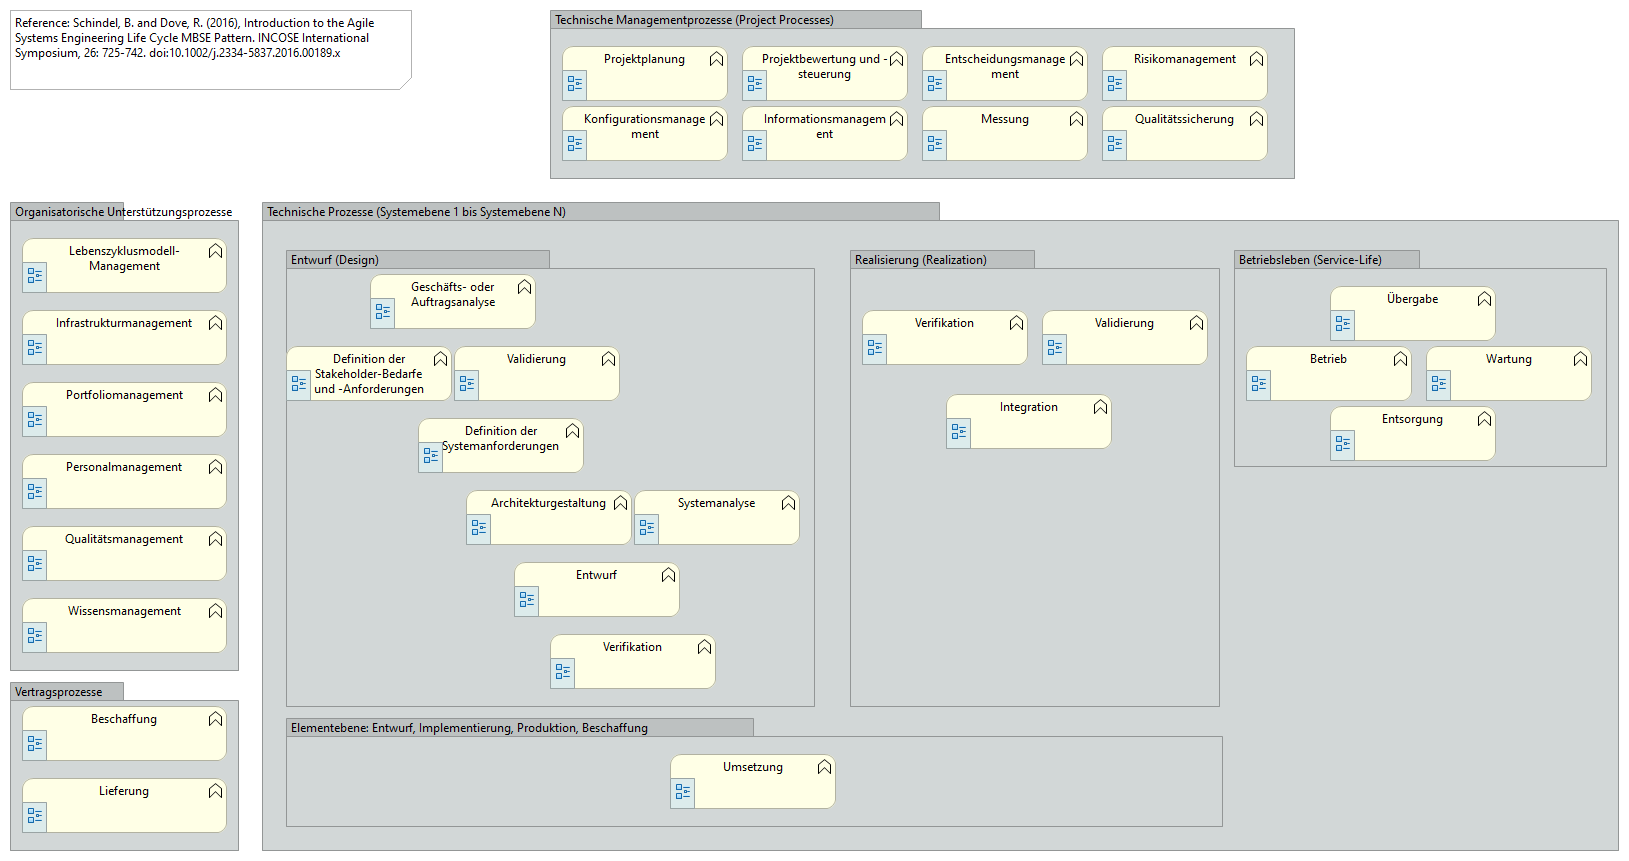
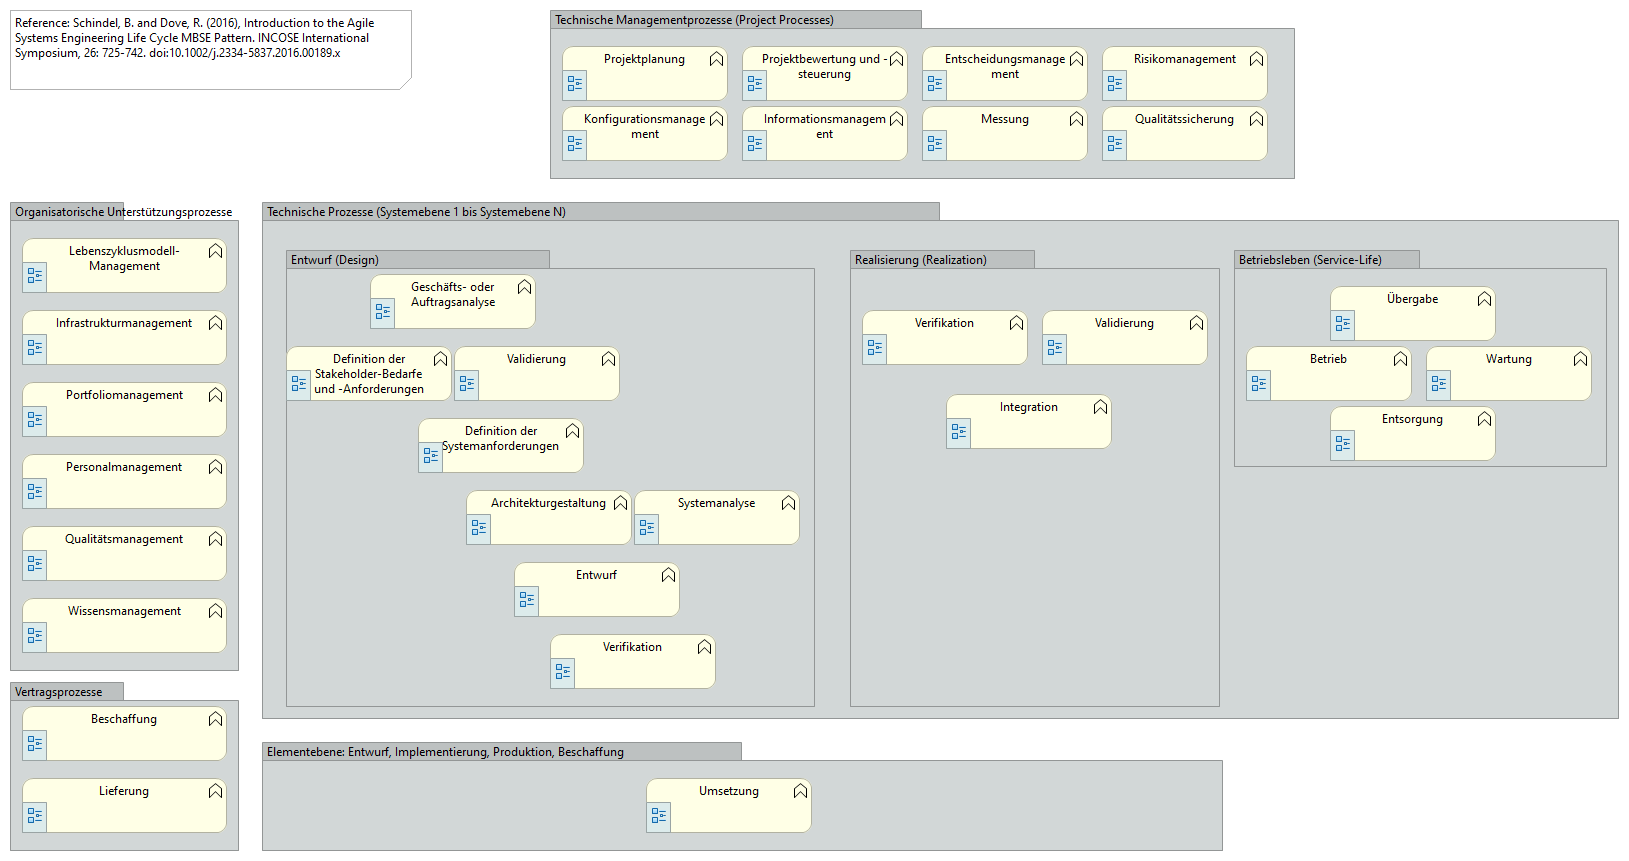
Update - Tech Process Element standalone

Changed region(s): [[0.1535, 0.8153, 1.0, 0.9965]]

diff --git a/MHPReport/15603b4a-2055-4a4e-a5a8-bde62073c06c/views/68ca604e-3d39-4179-aa78-bbb8b347ab2a.html b/MHPReport/15603b4a-2055-4a4e-a5a8-bde62073c06c/views/68ca604e-3d39-4179-aa78-bbb8b347ab2a.html
@@ -34,6 +34,12 @@
 		    <!-- If this is a digram model (has children and no bounds) show the image -->
 			   <img class="diagram" src="../images/68ca604e-3d39-4179-aa78-bbb8b347ab2a.png" alt="V-Modell Ansicht" usemap="#68ca604e-3d39-4179-aa78-bbb8b347ab2amap"/>
 			   <map name="68ca604e-3d39-4179-aa78-bbb8b347ab2amap">
+				  						<area shape="rect" coords="646,802,671,833" href="../views/865953ce-1a06-4588-b383-720519858d8b.html"  target="view">
+				  				    <!-- Other diagram objects -->
+
+				  				<area shape="rect" coords="646,778,812,833" href="../elements/dd630d51-558b-4ccc-9091-5f0822ff4d02.html"  target="element">
+
+				          <area shape="rect" coords="262,742,1223,851" href="../objects/19332b9d-b07a-4b15-a438-8ab5d6bf4344.html" target="element" >
 				          <area shape="rect" coords="10,10,412,90" href="../objects/4b4b7e76-e760-49db-b483-5f934f212f56.html" target="element" >
 				  						<area shape="rect" coords="22,622,47,653" href="../views/02aa017f-d5e1-41a5-89c4-d8e7cbe1d9d4.html"  target="view">
 				  				    <!-- Other diagram objects -->
@@ -105,12 +111,6 @@
 				  				<area shape="rect" coords="562,46,728,101" href="../elements/af9e0d82-de0d-4bfd-93e7-1a3253e43e8c.html"  target="element">
 
 				          <area shape="rect" coords="550,10,1295,179" href="../objects/c452ac36-a544-4d04-80bb-049cb43fad83.html" target="element" >
-				  								<area shape="rect" coords="670,778,695,809" href="../views/865953ce-1a06-4588-b383-720519858d8b.html"  target="view">
-				  						    <!-- Other diagram objects -->
-
-				  						<area shape="rect" coords="670,754,836,809" href="../elements/dd630d51-558b-4ccc-9091-5f0822ff4d02.html"  target="element">
-
-				  		        <area shape="rect" coords="286,718,1223,827" href="../objects/19332b9d-b07a-4b15-a438-8ab5d6bf4344.html" target="element" >
 				  								<area shape="rect" coords="1426,370,1451,401" href="../views/080ae985-c599-4cd9-801b-602fa0e41bba.html"  target="view">
 				  						    <!-- Other diagram objects -->
 
@@ -178,7 +178,7 @@
 
 				  		        <area shape="rect" coords="850,250,1220,707" href="../objects/67a09e96-5d54-462e-96fc-1878d177e16a.html" target="element" >
 
-				          <area shape="rect" coords="262,202,1619,851" href="../objects/b9b1d24e-c009-402a-aeb6-256df171e9a4.html" target="element" >
+				          <area shape="rect" coords="262,202,1619,719" href="../objects/b9b1d24e-c009-402a-aeb6-256df171e9a4.html" target="element" >
 
 			   </map>
 
@@ -426,24 +426,6 @@
 
 															
 													
-											        <tr>
-											           <td> <a href="../objects/19332b9d-b07a-4b15-a438-8ab5d6bf4344.html" target="element"> Elementebene: Entwurf, Implementierung, Produktion, Beschaffung </a> </td>
-											           <td> <a href="../objects/19332b9d-b07a-4b15-a438-8ab5d6bf4344.html" target="element" class="i18n-elementtype-DiagramModelGroup"> </a> </td>
-											        </tr>
-
-															<tr>
-															    <td> <a href="../elements/dd630d51-558b-4ccc-9091-5f0822ff4d02.html" target="element"> Umsetzung </a> </td>
-															    <td> <a href="../elements/dd630d51-558b-4ccc-9091-5f0822ff4d02.html" target="element" class="i18n-elementtype-BusinessFunction"> </a> </td>
-															</tr>
-
-																	<tr>
-																	    <td> <a href="../views/865953ce-1a06-4588-b383-720519858d8b.html" target="view"> 01-07 Umsetzung </a> </td>
-																	    <td> <a href="../views/865953ce-1a06-4588-b383-720519858d8b.html" target="view" class="i18n-viewpoint-"> </a> </td>
-																	</tr>
-															    <!-- Other graphical objects -->
-
-															
-													
 											
 									        <tr>
 									           <td> <a href="../objects/c452ac36-a544-4d04-80bb-049cb43fad83.html" target="element"> Technische Managementprozesse (Project Processes) </a> </td>
@@ -660,6 +642,24 @@
 									           <td> <a href="../objects/4b4b7e76-e760-49db-b483-5f934f212f56.html" target="element" class="i18n-elementtype-DiagramModelNote"> </a> </td>
 									        </tr>
 
+									        <tr>
+									           <td> <a href="../objects/19332b9d-b07a-4b15-a438-8ab5d6bf4344.html" target="element"> Elementebene: Entwurf, Implementierung, Produktion, Beschaffung </a> </td>
+									           <td> <a href="../objects/19332b9d-b07a-4b15-a438-8ab5d6bf4344.html" target="element" class="i18n-elementtype-DiagramModelGroup"> </a> </td>
+									        </tr>
+
+													<tr>
+													    <td> <a href="../elements/dd630d51-558b-4ccc-9091-5f0822ff4d02.html" target="element"> Umsetzung </a> </td>
+													    <td> <a href="../elements/dd630d51-558b-4ccc-9091-5f0822ff4d02.html" target="element" class="i18n-elementtype-BusinessFunction"> </a> </td>
+													</tr>
+
+															<tr>
+															    <td> <a href="../views/865953ce-1a06-4588-b383-720519858d8b.html" target="view"> 01-07 Umsetzung </a> </td>
+															    <td> <a href="../views/865953ce-1a06-4588-b383-720519858d8b.html" target="view" class="i18n-viewpoint-"> </a> </td>
+															</tr>
+													    <!-- Other graphical objects -->
+
+													
+											
 
 								</tbody>
 							</table>
@@ -712,10 +712,6 @@
 																	<!-- DEBUG: Skipping element from class com.archimatetool.model.impl.DiagramModelReference -->
 															
 													
-													<!-- DEBUG: Skipping element from class com.archimatetool.model.impl.DiagramModelGroup -->
-																	<!-- DEBUG: Skipping element from class com.archimatetool.model.impl.DiagramModelReference -->
-															
-													
 											
 											<!-- DEBUG: Skipping element from class com.archimatetool.model.impl.DiagramModelGroup -->
 															<!-- DEBUG: Skipping element from class com.archimatetool.model.impl.DiagramModelReference -->
@@ -756,6 +752,10 @@
 													
 											
 											<!-- DEBUG: Skipping element from class com.archimatetool.model.impl.DiagramModelNote -->
+											<!-- DEBUG: Skipping element from class com.archimatetool.model.impl.DiagramModelGroup -->
+															<!-- DEBUG: Skipping element from class com.archimatetool.model.impl.DiagramModelReference -->
+													
+											
 
 								</tbody>
 							</table>

diff --git a/MHPReport/15603b4a-2055-4a4e-a5a8-bde62073c06c/elements/model.html b/MHPReport/15603b4a-2055-4a4e-a5a8-bde62073c06c/elements/model.html
@@ -3670,10 +3670,6 @@ alexander.efremoff@gmail.com</textarea>
 																			dataViewsContent.push({viewid:"68ca604e-3d39-4179-aa78-bbb8b347ab2a", contentid:"9697be1e-806b-42c9-a968-03f57193ac9e", contenttype:"DiagramModelReference"});
 																	
 															
-																	dataViewsContent.push({viewid:"68ca604e-3d39-4179-aa78-bbb8b347ab2a", contentid:"28f0b29b-9c66-484c-9ff5-453cd21ce89c", contenttype:"DiagramModelArchimateObject"});
-																			dataViewsContent.push({viewid:"68ca604e-3d39-4179-aa78-bbb8b347ab2a", contentid:"01b07e50-1f9e-478d-879d-05e3446901d1", contenttype:"DiagramModelReference"});
-																	
-															
 													
 															dataViewsContent.push({viewid:"68ca604e-3d39-4179-aa78-bbb8b347ab2a", contentid:"0fca7a01-04a8-4df0-9291-0c6772344757", contenttype:"DiagramModelArchimateObject"});
 																	dataViewsContent.push({viewid:"68ca604e-3d39-4179-aa78-bbb8b347ab2a", contentid:"52deebda-0eb6-413b-b7e8-08c9d8b69b83", contenttype:"DiagramModelReference"});
@@ -3726,6 +3722,10 @@ alexander.efremoff@gmail.com</textarea>
 																	dataViewsContent.push({viewid:"68ca604e-3d39-4179-aa78-bbb8b347ab2a", contentid:"398b0045-5d27-4958-ade6-5189e86c8369", contenttype:"DiagramModelReference"});
 															
 													
+															dataViewsContent.push({viewid:"68ca604e-3d39-4179-aa78-bbb8b347ab2a", contentid:"28f0b29b-9c66-484c-9ff5-453cd21ce89c", contenttype:"DiagramModelArchimateObject"});
+																	dataViewsContent.push({viewid:"68ca604e-3d39-4179-aa78-bbb8b347ab2a", contentid:"01b07e50-1f9e-478d-879d-05e3446901d1", contenttype:"DiagramModelReference"});
+															
+													
 
 																	
 																	
@@ -3745,8 +3745,6 @@ alexander.efremoff@gmail.com</textarea>
 																	
 																	
 															
-																	
-															
 													
 															
 															
@@ -3765,6 +3763,8 @@ alexander.efremoff@gmail.com</textarea>
 															
 															
 															
+															
+													
 															
 													
 

diff --git a/MHPReport/15603b4a-2055-4a4e-a5a8-bde62073c06c/objects/b9b1d24e-c009-402a-aeb6-256df171e9a4.html b/MHPReport/15603b4a-2055-4a4e-a5a8-bde62073c06c/objects/b9b1d24e-c009-402a-aeb6-256df171e9a4.html
@@ -271,24 +271,6 @@
 
 													
 											
-									        <tr>
-									           <td> <a href="../objects/19332b9d-b07a-4b15-a438-8ab5d6bf4344.html" target="element"> Elementebene: Entwurf, Implementierung, Produktion, Beschaffung </a> </td>
-									           <td> <a href="../objects/19332b9d-b07a-4b15-a438-8ab5d6bf4344.html" target="element" class="i18n-elementtype-DiagramModelGroup"> </a> </td>
-									        </tr>
-
-													<tr>
-													    <td> <a href="../elements/dd630d51-558b-4ccc-9091-5f0822ff4d02.html" target="element"> Umsetzung </a> </td>
-													    <td> <a href="../elements/dd630d51-558b-4ccc-9091-5f0822ff4d02.html" target="element" class="i18n-elementtype-BusinessFunction"> </a> </td>
-													</tr>
-
-															<tr>
-															    <td> <a href="../views/865953ce-1a06-4588-b383-720519858d8b.html" target="view"> 01-07 Umsetzung </a> </td>
-															    <td> <a href="../views/865953ce-1a06-4588-b383-720519858d8b.html" target="view" class="i18n-viewpoint-"> </a> </td>
-															</tr>
-													    <!-- Other graphical objects -->
-
-													
-											
 
 								</tbody>
 							</table>
@@ -337,10 +319,6 @@
 													
 															<!-- DEBUG: Skipping element from class com.archimatetool.model.impl.DiagramModelReference -->
 													
-															<!-- DEBUG: Skipping element from class com.archimatetool.model.impl.DiagramModelReference -->
-													
-											
-											<!-- DEBUG: Skipping element from class com.archimatetool.model.impl.DiagramModelGroup -->
 															<!-- DEBUG: Skipping element from class com.archimatetool.model.impl.DiagramModelReference -->
 													
 											
